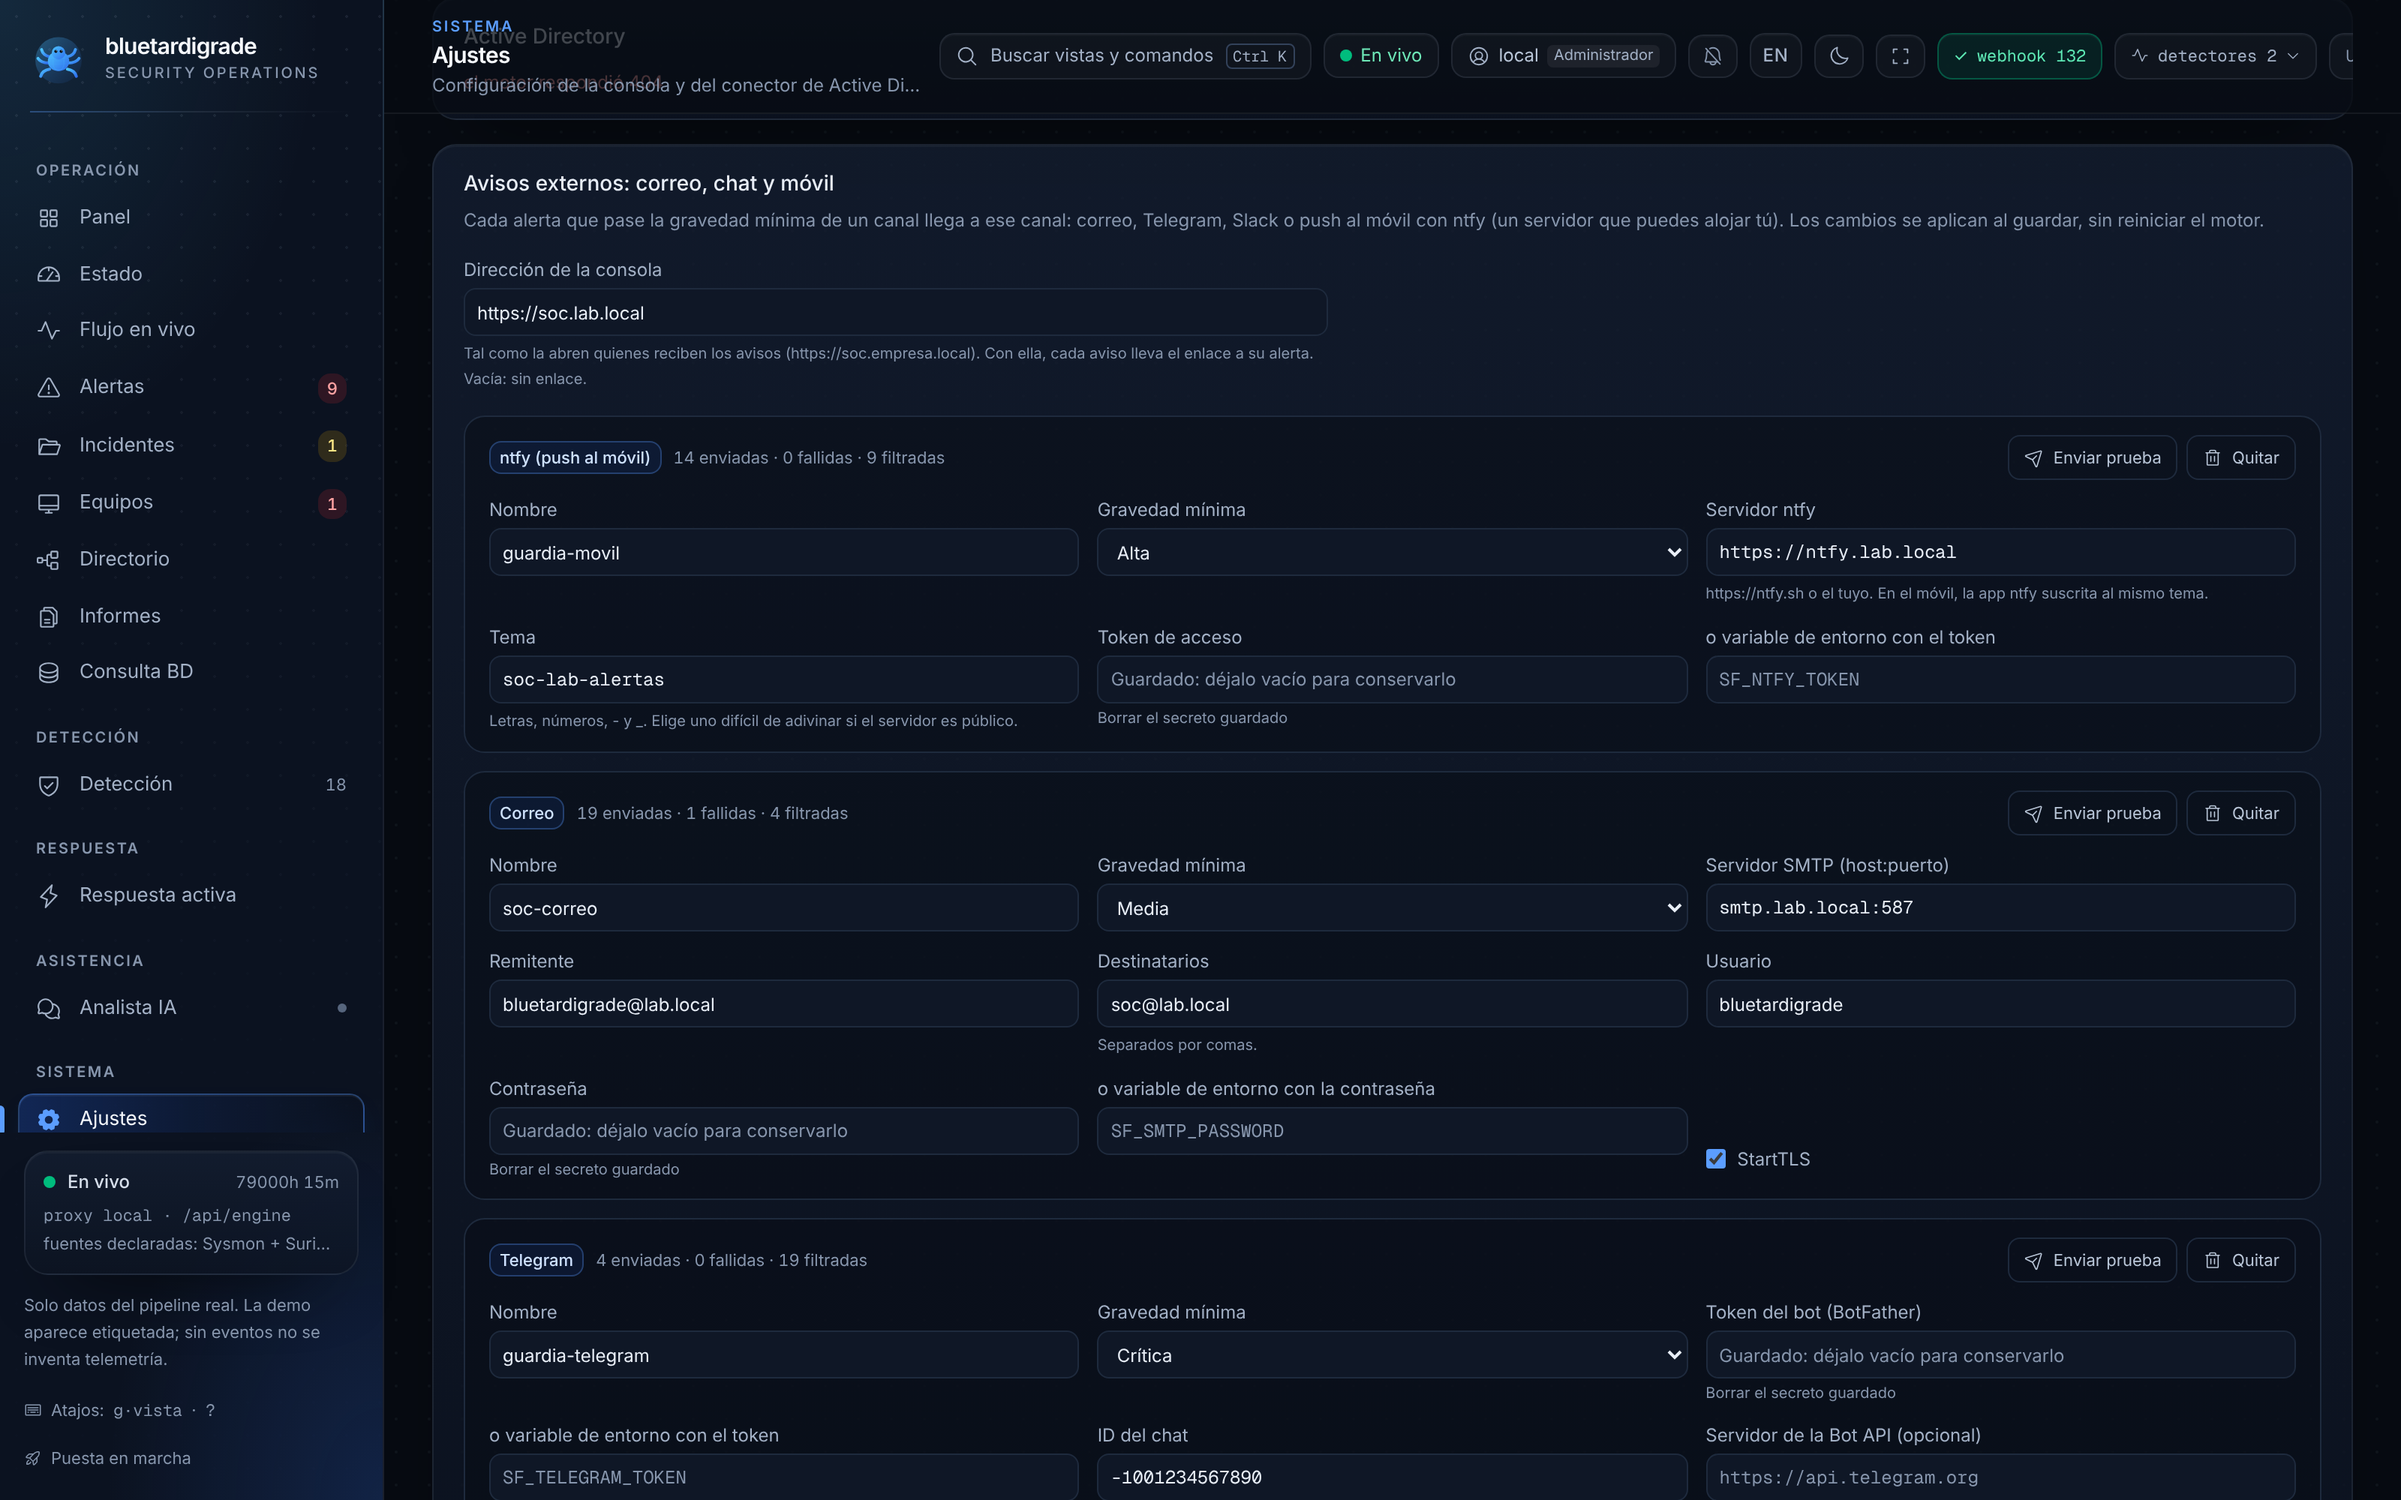
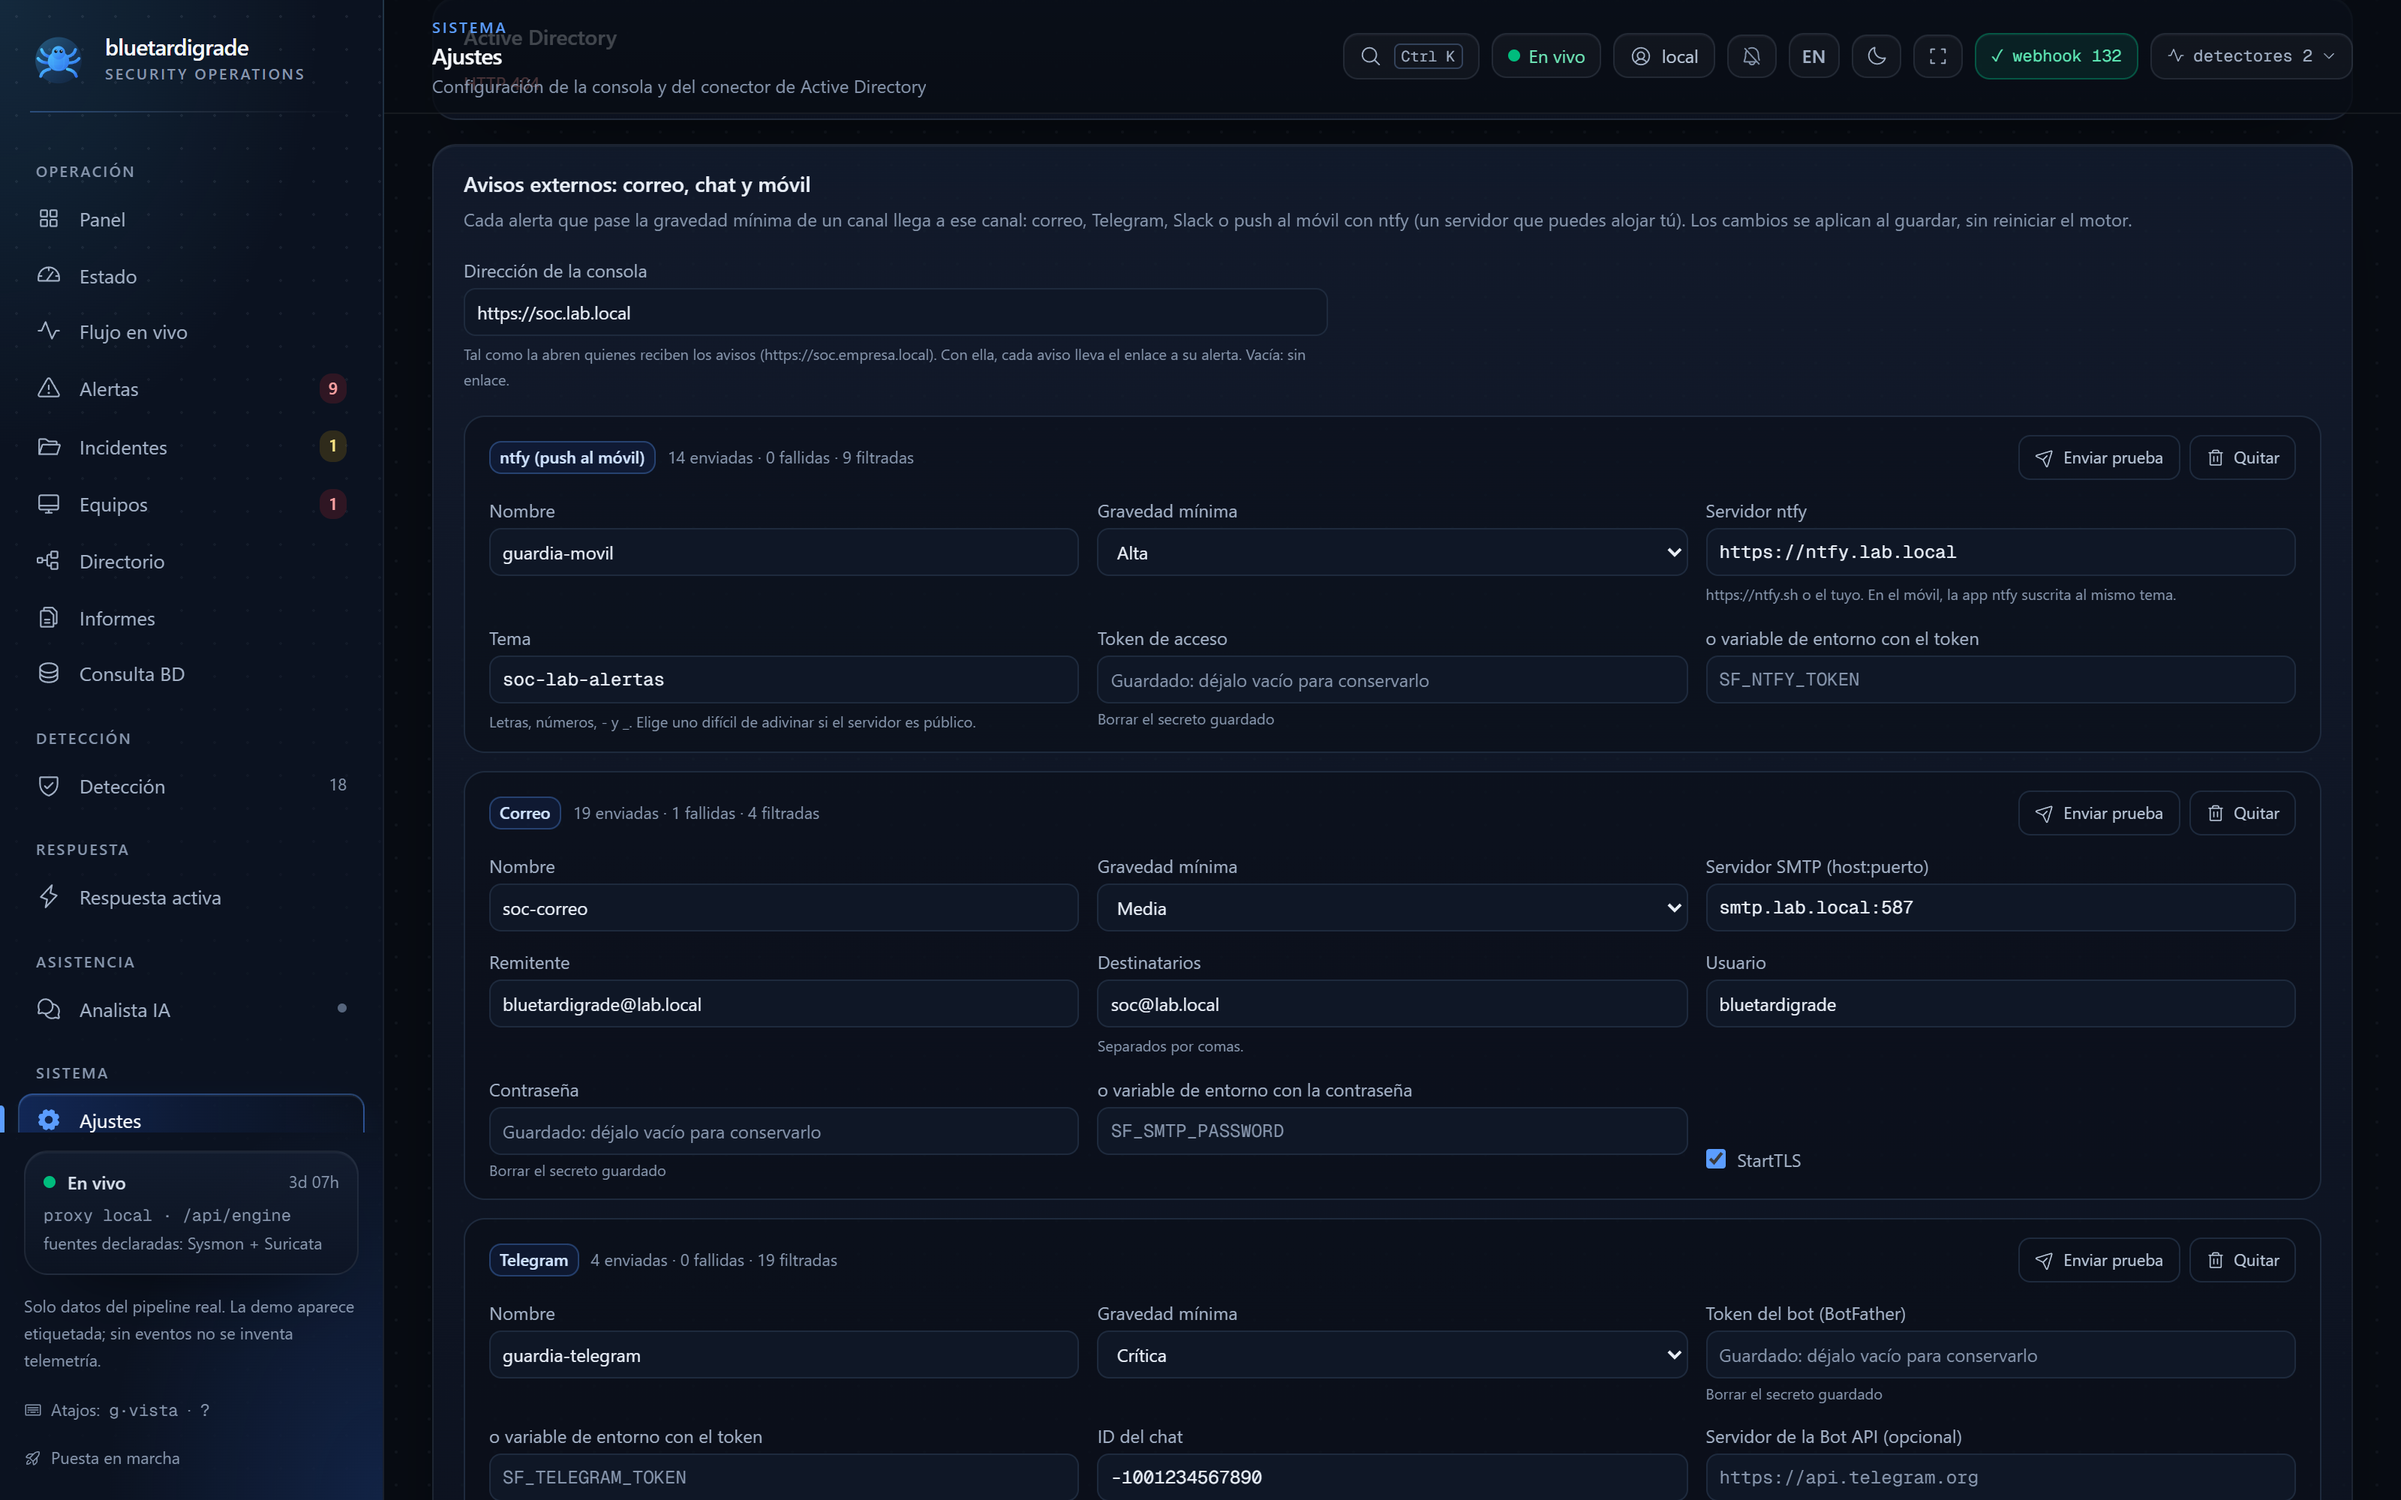
docs: capturas del README rehechas con la consola pulida
Las diecinueve capturas de docs/assets salen de la consola actual con
las fixtures fieles al contrato (equipos LAB-*, sin datos personales):
cabecera en una línea, contenido visible desde la primera pintura y
cola legible en el móvil. Las fixtures calculaban uptime_s con sus
constantes en milisegundos (el motor salía «79000h» encendido); ahora
dan segundos y la captura dice «3d 07h». La imagen de portada y el
vídeo siguen siendo de la consola anterior.

diff --git a/changelog.d/docs-console-captures.md b/changelog.d/docs-console-captures.md
@@ -1,0 +1,1 @@
+- **README screenshots retaken from the polished console.** The nineteen `docs/assets/console-*.png` captures (desktop, light theme, NOC and phone) come from the current console through `docs/assets/src/capture_console.mjs` with the contract-true fixtures (LAB-* hosts, no personal data): one-line header, content painted on first load, readable phone queue. The fixtures computed `uptime_s` with their millisecond constants, so the engine read "79000h" running; they now give seconds and the captures show "3d 07h". The hero image and the demo video still show the previous console.
